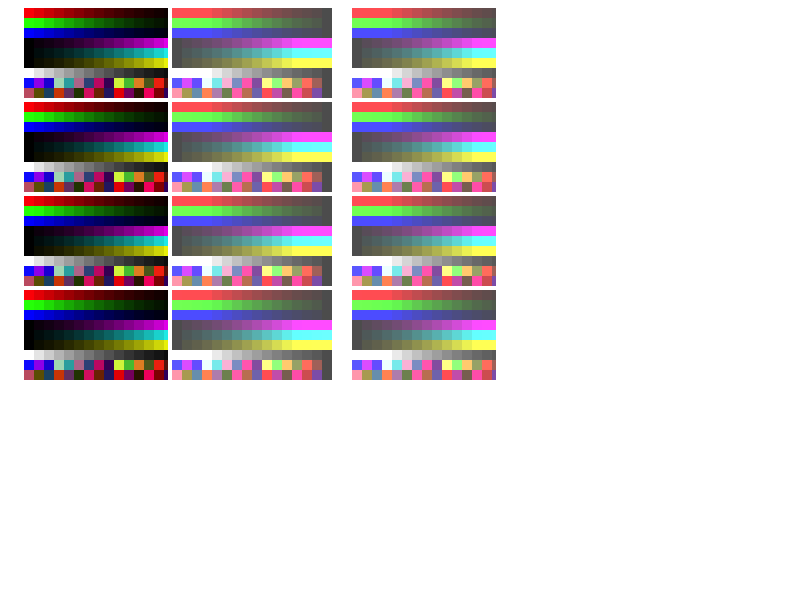
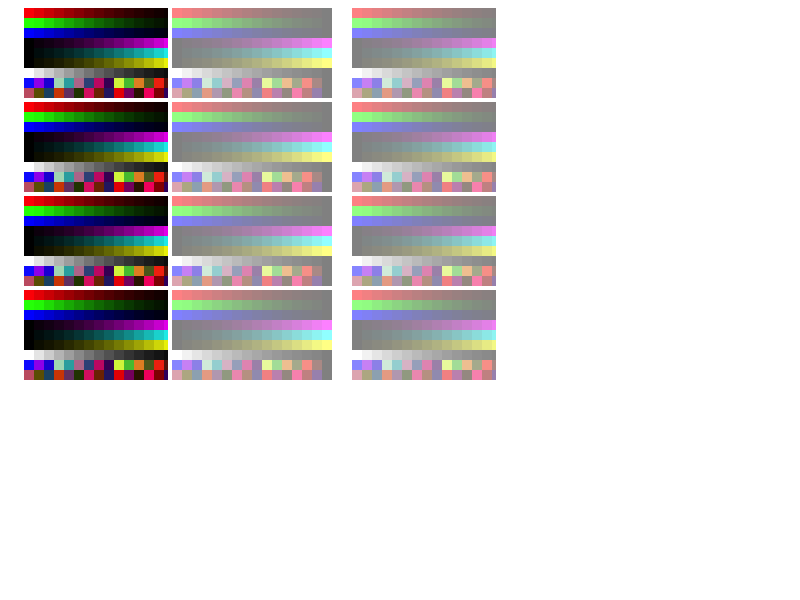
[CSS Shaders] Update custom filter tests to use the new security model https://bugs.webkit.org/show_bug.cgi?id=95760
Patch by Max Vujovic <mvujovic@adobe.com> on 2012-09-05
Reviewed by Dirk Schulze.

This patch updates the custom filter tests to not sample u_texture and not write
to gl_FragColor. Now, the tests use the new security model by writing to
css_MixColor and indirectly blending with the DOM element texture.

This patch prepares us to remove direct DOM texture access via "u_texture":
https://bugs.webkit.org/show_bug.cgi?id=93871

* css3/filters/custom/custom-filter-css-keyword-as-parameter-name-expected.png:
* css3/filters/custom/custom-filter-shader-cache-expected.png:
* css3/filters/custom/custom-filter-shader-cache.html:
    Use the CSS mix function with the updated color-offset.fs.
* css3/filters/custom/effect-color-check-expected.png:
* css3/filters/custom/effect-color-check.html:
    Use the CSS mix function with the updated color-fill.fs.
* css3/filters/custom/effect-custom-combined-missing-expected.png:
* css3/filters/custom/effect-custom-combined-missing.html:
    Use the CSS mix function with the updated color-offset.fs.
* css3/filters/custom/effect-custom-expected.png:
* css3/filters/custom/effect-custom-parameters-expected.png:
* css3/filters/custom/effect-custom-parameters.html:
    Use the mix-color.fs shader instead of color-offset-parameters.fs.
* css3/filters/custom/effect-custom.html:
    Use the CSS mix function with the updated color-offset.fs.
* css3/filters/custom/filter-repaint-custom-clipped-expected.png:
[…]

Changed region(s): [[0.1875, 0.0, 0.625, 0.66]]

diff --git a/LayoutTests/css3/filters/custom/effect-custom-parameters.html b/LayoutTests/css3/filters/custom/effect-custom-parameters.html
@@ -20,32 +20,32 @@
         <style>
         /* Testing parameters of type float, vec2 and vec3 in vertex-offset-parameters.vs and vec4 in color-offset-parameters.fs. */
         .filterA {
-            -webkit-filter: custom(url('../resources/vertex-offset-parameters.vs') url('../resources/color-offset-parameters.fs'), 
+            -webkit-filter: custom(url('../resources/vertex-offset-parameters.vs') mix(url('../resources/mix-color.fs') normal source-atop),
                                    perspective 2, 
                                    vertex_offset -0.05 0.1,
                                    rotate 45 -25 -10, 
-                                   color_offset 0.4 0.2 0.5 0.1);
+                                   mix_color 0.4 0.2 0.5 0.5);
         }
         .filterB {
-            -webkit-filter: custom(url('../resources/vertex-offset-parameters.vs') url('../resources/color-offset-parameters.fs'), 
+            -webkit-filter: custom(url('../resources/vertex-offset-parameters.vs') mix(url('../resources/mix-color.fs') normal source-atop),
                                    rotate 45 25 -10,
                                    perspective 10, 
                                    vertex_offset -0.05 0.1,
-                                   color_offset 0.1 0.9 0.5 -0.5);
+                                   mix_color 0.1 0.9 0.5 0.5);
         }
         .filterC {
-            -webkit-filter: custom(url('../resources/vertex-offset-parameters.vs') url('../resources/color-offset-parameters.fs'), 
-                                   color_offset 0 0 0 0,
+            -webkit-filter: custom(url('../resources/vertex-offset-parameters.vs') mix(url('../resources/mix-color.fs') normal source-atop),
+                                   mix_color 0 0 0 0.5,
                                    perspective 2, 
                                    vertex_offset -0.05 0.1,
                                    rotate 45 -25 -10);
         }
         .filterD {
-            -webkit-filter: custom(url('../resources/vertex-offset-parameters.vs') url('../resources/color-offset-parameters.fs'), 
+            -webkit-filter: custom(url('../resources/vertex-offset-parameters.vs') mix(url('../resources/mix-color.fs') normal source-atop),
                                    vertex_offset -0.15 0.1,
                                    rotate 15 -45 10,
                                    perspective 1.5, 
-                                   color_offset 0.4 0.2 0.5 0.1);
+                                   mix_color 0.4 0.2 0.5 0.5);
         }
         </style>
     </head>

diff --git a/LayoutTests/css3/filters/custom/effect-custom.html b/LayoutTests/css3/filters/custom/effect-custom.html
@@ -19,11 +19,11 @@
         </script>
     </head>
     <body onload="runTest()">
-        <img style="-webkit-filter: custom(url('../resources/vertex-offset.vs') url('../resources/color-offset.fs'))" src="../resources/reference.png">
+        <img style="-webkit-filter: custom(url('../resources/vertex-offset.vs') mix(url('../resources/color-offset.fs') normal source-atop))" src="../resources/reference.png">
         <img style="-webkit-filter: custom(url('../resources/vertex-offset.vs') mix(url('../resources/empty-shader.fs') normal source-atop), 6 11)" src="../resources/reference.png">
         <img style="-webkit-filter: custom(url('../resources/vertex-explode-detached.vs') mix(url('../resources/empty-shader.fs') normal source-atop), 3 3 detached)" src="../resources/reference.png">
-        <img style="-webkit-filter: custom(url('../resources/vertex-explode-detached.vs') url('../resources/color-offset.fs'), 3 3 detached)" src="../resources/reference.png">
-        <img style="-webkit-filter: custom(url('../resources/pass-tex-coord.vs') url('../resources/color-offset.fs'))" src="../resources/reference.png">
+        <img style="-webkit-filter: custom(url('../resources/vertex-explode-detached.vs') mix(url('../resources/color-offset.fs') normal source-atop), 3 3 detached)" src="../resources/reference.png">
+        <img style="-webkit-filter: custom(url('../resources/pass-tex-coord.vs') mix(url('../resources/color-offset.fs') normal source-atop))" src="../resources/reference.png">
         <!--
             Testing that simple custom filters work in software mode. You should see 5 blocks of colored bars with different effects applied, from left to right: 
             offset to the right with washed out colors, just offset to the right with normal colors, 4 smaller blocks attached to the corners, 4 smaller blocks 

diff --git a/LayoutTests/css3/filters/custom/effect-color-check.html b/LayoutTests/css3/filters/custom/effect-color-check.html
@@ -19,12 +19,12 @@
         </script>
     </head>
     <body onload="runTest()">
-        <img style="-webkit-filter: custom(url('../resources/pass-tex-coord.vs') url('../resources/color-fill.fs'), color 1 0 0 1)" src="../../../compositing/resources/thiswayup.png">
-        <img style="-webkit-filter: custom(url('../resources/pass-tex-coord.vs') url('../resources/color-fill.fs'), color 0 1 0 1)" src="../../../compositing/resources/thiswayup.png">
-        <img style="-webkit-filter: custom(url('../resources/pass-tex-coord.vs') url('../resources/color-fill.fs'), color 0 0 1 1)" src="../../../compositing/resources/thiswayup.png">
+        <img style="-webkit-filter: custom(url('../resources/pass-tex-coord.vs') mix(url('../resources/color-fill.fs') normal source-atop), color 1 0 0 1)" src="../../../compositing/resources/thiswayup.png">
+        <img style="-webkit-filter: custom(url('../resources/pass-tex-coord.vs') mix(url('../resources/color-fill.fs') normal source-atop), color 0 1 0 1)" src="../../../compositing/resources/thiswayup.png">
+        <img style="-webkit-filter: custom(url('../resources/pass-tex-coord.vs') mix(url('../resources/color-fill.fs') normal source-atop), color 0 0 1 1)" src="../../../compositing/resources/thiswayup.png">
         <!--
             Testing that the color channels are specified correctly. You should see 3 boxes filled with red, green and blue. The arrow should
-            point upside and the text should be written from left to right (no mirror). Also the gradient starts from up - transparent to down - full color.
+            point upward and the text should be written from left to right (no mirror). Also the gradient starts from up - no color to down - full color.
             Note: WebGL needs to be enabled for this test to succeed.
         -->
     </body>

diff --git a/LayoutTests/css3/filters/custom/effect-custom-combined-missing.html b/LayoutTests/css3/filters/custom/effect-custom-combined-missing.html
@@ -24,9 +24,9 @@
             height: 90px;
         }
         .filterA {
-            -webkit-filter: custom(url('../resources/vertex-offset.vs') url('../resources/color-offset.fs'))
-                            custom(url('../resources/missing-vertex-offset.vs') url('../resources/missing-color-offset.fs'))
-                            custom(url('../resources/vertex-offset.vs') url('../resources/color-offset.fs'));
+            -webkit-filter: custom(url('../resources/vertex-offset.vs') mix(url('../resources/color-offset.fs') normal source-atop))
+                            custom(url('../resources/missing-vertex-offset.vs') mix(url('../resources/missing-color-offset.fs') normal source-atop))
+                            custom(url('../resources/vertex-offset.vs') mix(url('../resources/color-offset.fs') normal source-atop));
         }
         </style>
     </head>
@@ -35,8 +35,9 @@
             <img class='filterA' src="../resources/reference.png">
         </div>
         <!--
-            Testing that multiple filters can be applied even if some filters cannot be loaded. You should see a washed out block of colored bars on top of green background. 
-            There should be two columns at the left of the block with different shades of green.
+            Testing that multiple filters can be applied even if some filters cannot be loaded.
+            You should see a rectangle with a washed out block of colored bars on top of green background.
+            There should be a green column left of the block spanning 20% of the rectangle's width.
         -->
     </body>
 </html>

diff --git a/LayoutTests/css3/filters/custom/missing-custom-filter-shader.html b/LayoutTests/css3/filters/custom/missing-custom-filter-shader.html
@@ -25,20 +25,20 @@
             }
             .missing_fragment_shader
             {
-                -webkit-filter: custom(none url('../resources/missing-color-offset.fs'));
+                -webkit-filter: custom(none mix(url('../resources/missing-color-offset.fs') normal source-atop));
             }
             .both_shaders_but_missing_vertex_shader
             {
-                -webkit-filter: custom(url('../resources/missing-vertex-offset.vs') url('../resources/color-offset.fs'));
+                -webkit-filter: custom(url('../resources/missing-vertex-offset.vs') mix(url('../resources/color-offset.fs') normal source-atop));
             }
 
             .both_shaders_but_missing_fragment_shader
             {
-                -webkit-filter: custom(url('../resources/vertex-offset.vs') url('../resources/missing-color-offset.fs'));
+                -webkit-filter: custom(url('../resources/vertex-offset.vs') mix(url('../resources/missing-color-offset.fs') normal source-atop));
             }
             .both_shaders_missing
             {
-                -webkit-filter: custom(url('../resources/missing-vertex-offset.vs') url('../resources/missing-color-offset.fs'));
+                -webkit-filter: custom(url('../resources/missing-vertex-offset.vs') mix(url('../resources/missing-color-offset.fs') normal source-atop));
             }
         </style>
     </head>

diff --git a/LayoutTests/css3/filters/custom/invalid-custom-filter-shader.html b/LayoutTests/css3/filters/custom/invalid-custom-filter-shader.html
@@ -25,20 +25,20 @@
             }
             .invalid_fragment_shader
             {
-                -webkit-filter: custom(none url('../resources/invalid-shader.vs'));
+                -webkit-filter: custom(none mix(url('../resources/invalid-shader.vs') normal source-atop));
             }
             .both_shaders_but_invalid_vertex_shader
             {
-                -webkit-filter: custom(url('../resources/invalid-shader.vs') url('../resources/color-offset.fs'));
+                -webkit-filter: custom(url('../resources/invalid-shader.vs') mix(url('../resources/color-offset.fs') normal source-atop));
             }
 
             .both_shaders_but_invalid_fragment_shader
             {
-                -webkit-filter: custom(url('../resources/vertex-offset.vs') url('../resources/invalid-shader.vs'));
+                -webkit-filter: custom(url('../resources/vertex-offset.vs') mix(url('../resources/invalid-shader.vs') normal source-atop));
             }
             .both_shaders_invalid
             {
-                -webkit-filter: custom(url('../resources/invalid-shader.vs') url('../resources/invalid-shader.vs'));
+                -webkit-filter: custom(url('../resources/invalid-shader.vs') mix(url('../resources/invalid-shader.vs') normal-source-atop));
             }
         </style>
     </head>

diff --git a/LayoutTests/css3/filters/custom/filter-repaint-custom-rotated.html b/LayoutTests/css3/filters/custom/filter-repaint-custom-rotated.html
@@ -2,7 +2,7 @@
 <!-- 
     This tests verifies that filter shader is repainted using the full source image of the element instead of just the dirty area.
     Also it tests that the clipping or the transform rectangle of the box is not affecting the filter.
-    There should be one light green boxes on the screen. No red should be visible.
+    There should be one light green box on the screen. No red should be visible.
 -->
 <html>
 <head>
@@ -41,7 +41,7 @@
         }
 
         .shader {
-            -webkit-filter: custom(url(../resources/vertex-horizontal-offset.vs) url(../resources/color-add.fs), offset -0.5, add 0.1);
+            -webkit-filter: custom(url(../resources/vertex-horizontal-offset.vs) mix(url(../resources/mix-color.fs) normal source-atop), offset -0.5, mix_color 1.0 1.0 1.0 0.1);
             -webkit-transform-origin: 50px 50px;
             -webkit-transform: rotate(90deg);
         }

diff --git a/LayoutTests/css3/filters/custom/custom-filter-shader-cache.html b/LayoutTests/css3/filters/custom/custom-filter-shader-cache.html
@@ -25,11 +25,11 @@
             }
             .fragment_shader
             {
-                -webkit-filter: custom(url('../resources/pass-tex-coord.vs') url('../resources/color-offset.fs'));
+                -webkit-filter: custom(url('../resources/pass-tex-coord.vs') mix(url('../resources/color-offset.fs') normal source-atop));
             }
             .both_shaders
             {
-                -webkit-filter: custom(url('../resources/vertex-offset.vs') url('../resources/color-offset.fs'));
+                -webkit-filter: custom(url('../resources/vertex-offset.vs') mix(url('../resources/color-offset.fs') normal source-atop));
             }
         </style>
     </head>

diff --git a/LayoutTests/css3/filters/custom/filter-repaint-custom.html b/LayoutTests/css3/filters/custom/filter-repaint-custom.html
@@ -32,7 +32,7 @@
         .shader {
             border-top: 50px solid blue;
             width: 50px;
-            -webkit-filter: custom(url(../resources/vertex-rotate.vs) url(../resources/color-add.fs), rotateBy 90, add 0.1);
+            -webkit-filter: custom(url(../resources/vertex-rotate.vs) mix(url(../resources/mix-color.fs) normal source-atop), rotateBy 90, mix_color 1.0 1.0 1.0 0.1);
         }
     </style>
 

diff --git a/LayoutTests/css3/filters/custom/filter-repaint-custom-clipped.html b/LayoutTests/css3/filters/custom/filter-repaint-custom-clipped.html
@@ -41,7 +41,7 @@
         }
 
         .shader {
-            -webkit-filter: custom(url(../resources/vertex-horizontal-offset.vs) url(../resources/color-add.fs), offset -0.5, add 0.1);
+            -webkit-filter: custom(url(../resources/vertex-horizontal-offset.vs) mix(url(../resources/mix-color.fs) normal source-atop), offset -0.5, mix_color 1.0 1.0 1.0 0.1);
         }
     </style>
 
